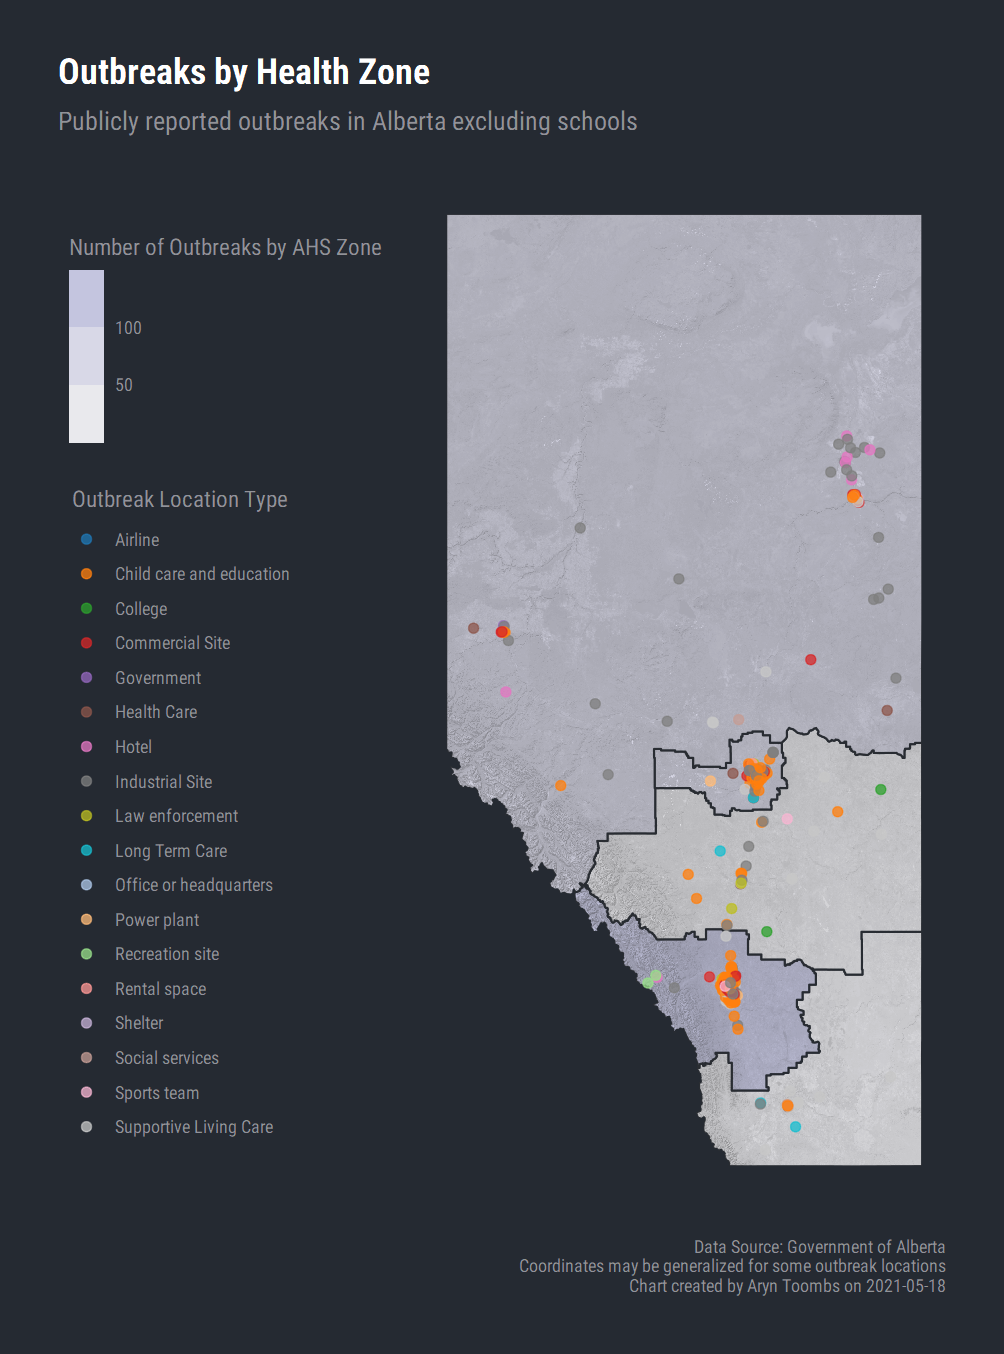
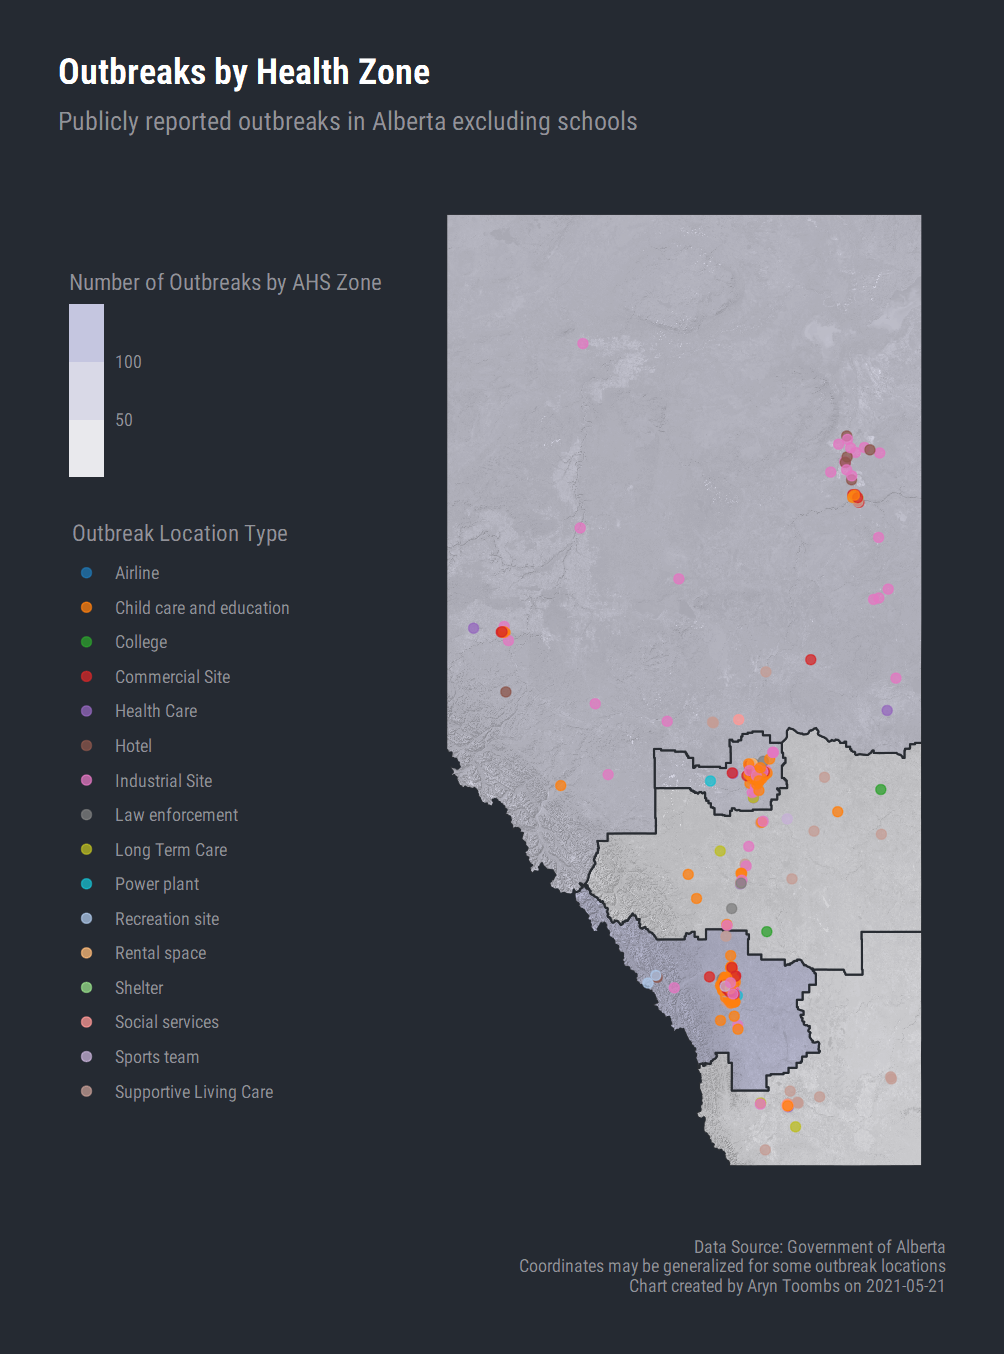
web

diff --git a/outbreaks/index.html b/outbreaks/index.html
@@ -162,7 +162,7 @@
       Calgary Zone
     </div>
     <div class="row box-bottom justify-content-center">
-      <h4>140</h4>
+      <h4>144</h4>
     </div>
   </div>
   <div class="col-sm ml-1 mr-1">
@@ -170,7 +170,7 @@
       Edmonton Zone
     </div>
     <div class="row box-bottom justify-content-center">
-      <h4>68</h4>
+      <h4>70</h4>
     </div>
   </div>
   <div class="col-sm ml-1 mr-1">
@@ -178,7 +178,7 @@
       South Zone
     </div>
     <div class="row box-bottom justify-content-center">
-      <h4>17</h4>
+      <h4>18</h4>
     </div>
   </div>
   <div class="col-sm ml-1 mr-1">
@@ -186,7 +186,7 @@
       Central Zone
     </div>
     <div class="row box-bottom justify-content-center">
-      <h4>28</h4>
+      <h4>29</h4>
     </div>
   </div>
   <div class="col-sm ml-1 mr-1">
@@ -199,7 +199,7 @@
   </div>
 </div>
 <div class="row mb-3 pr-1 pt-1 justify-content-end">
-  <p class="m-1"><i class="bi bi-info-circle-fill"></i> Covid-19 outbreaks (not including schools, see below) current as of Tue, May 18, 2021. AHS non-school outbreak data updated on Tuesdays and Fridays.</p>
+  <p class="m-1"><i class="bi bi-info-circle-fill"></i> Covid-19 outbreaks (not including schools, see below) current as of Fri, May 21, 2021. AHS non-school outbreak data updated on Tuesdays and Fridays.</p>
 </div>
   <div class="row pl-3">
     <h4 class="body-display">Outbreak Charts</h4>
